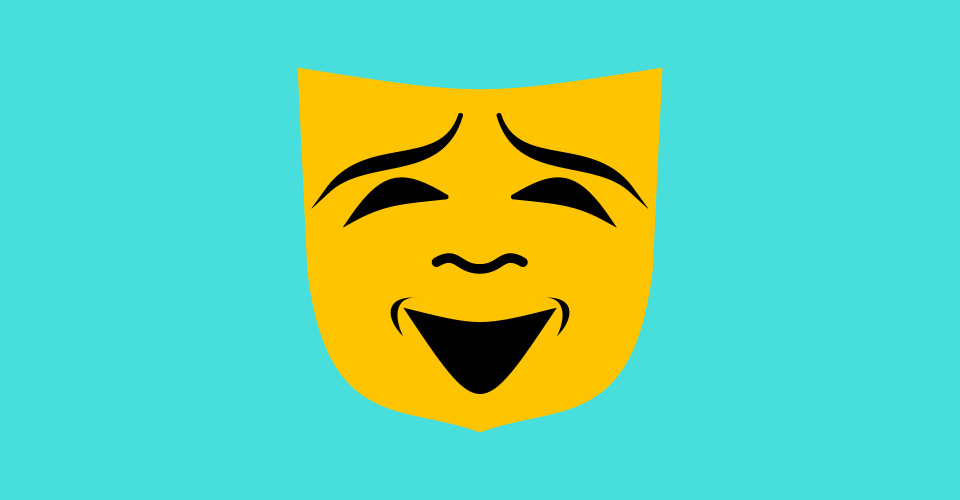
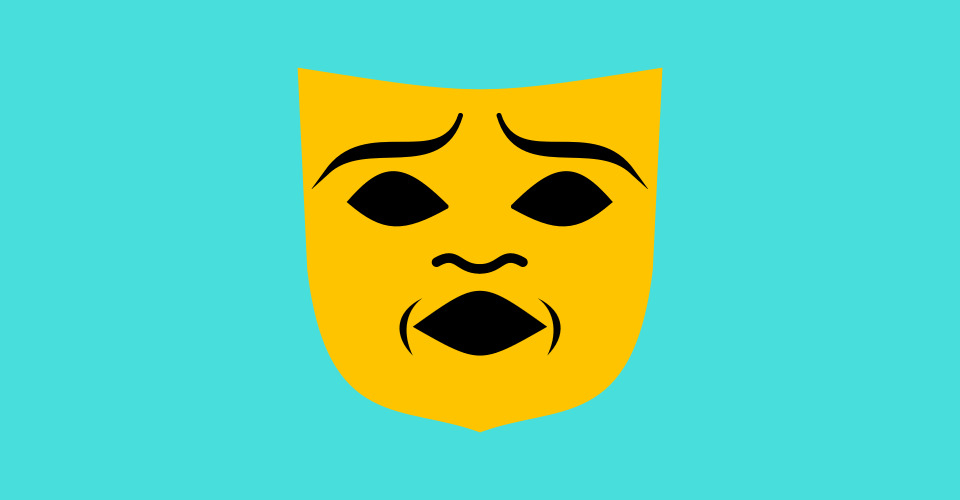
Slider Variables Fin.

Changed region(s): [[0.4062, 0.57, 0.5938, 0.78], [0.5312, 0.27, 0.6875, 0.45], [0.3125, 0.27, 0.4688, 0.45]]

diff --git a/face_code.js b/face_code.js
@@ -105,162 +105,112 @@ function faceMask(brow_value ,eye_value, mouth_value, color_value) {
   endShape();
 
 ///////// EYEBROWS /////////
-  // Brow #1
-  if(brow_value == 1){
-    fill(0);
-    strokeWeight(0.25);
-    beginShape();
-    vertex(1, -7);
-    bezierVertex(2, -3, 6, -8, 8, -5);
-    bezierVertex(6, -7, 2, -2.5, 1, -7);
-    endShape();
+  let inner_browY = -1 // -1 - 1
+  let outer_browY = 1 // 0 - 2
 
-    beginShape();
-    vertex(-1, -7);
-    bezierVertex(-2, -3, -6, -8, -8, -5);
-    bezierVertex(-6, -7, -2, -2.5, -1, -7);
-    endShape();
-  }
+  fill(0);
+  strokeWeight(0.25);
+  beginShape();
+  vertex(1, (inner_browY -6));
+  bezierVertex(2, (inner_browY -3), 6, (outer_browY -8), 8, (outer_browY -5));
+  bezierVertex(6, (outer_browY -7), 2, (inner_browY -2.5), 1, (inner_browY -6));
+  endShape();
 
-  // Brow #2
-  // if(brow_value == 2){
-    let inner_browY = -1
-    let outer_browY = 2
-
-    fill(0);
-    strokeWeight(0.25);
-    beginShape();
-    vertex(1, (inner_browY -6));
-    bezierVertex(2, (inner_browY -3), 6, (outer_browY -8), 8, (outer_browY -5));
-    bezierVertex(6, (outer_browY -7), 2, (inner_browY -2.5), 1, (inner_browY -6));
-    endShape();
-
-    beginShape();
-    vertex(-1, (inner_browY -6));
-    bezierVertex(-2, (inner_browY -3), -6, (outer_browY -8), -8, (outer_browY -5));
-    bezierVertex(-6, (outer_browY -7), -2, (inner_browY -2.5), -1, (inner_browY -6));
-    endShape();
-  // }
+  beginShape();
+  vertex(-1, (inner_browY -6));
+  bezierVertex(-2, (inner_browY -3), -6, (outer_browY -8), -8, (outer_browY -5));
+  bezierVertex(-6, (outer_browY -7), -2, (inner_browY -2.5), -1, (inner_browY -6));
+  endShape();
 
 
 ///////// EYES /////////
-  // Eye #1
-  if(eye_value == 1){
-    fill(0);
-    strokeWeight(0.25);
+  let inner_eyeY = 0 // -0.5 - 0.5
+  let outer_eyeY = -0.5 //  - 0.5 - 0
+  let upper_eyeY = -0.5 // -0.5 - 0.5
+  let lower_eyeY = 1.5 // -1.5 - 1.5
 
-    beginShape();
-    vertex(-1.75, -2.25);
-    bezierVertex(-4, -4, -5, -4, -6.75, -2);
-    bezierVertex(-5, -2.5, -4, -2.5, -1.75, -2.25);
-    endShape();
+  fill(0);
+  strokeWeight(0.25);
 
-    beginShape();
-    vertex(1.75, -2.25);
-    bezierVertex(4, -4, 5, -4, 6.75, -2);
-    bezierVertex(5, -2.5, 4, -2.5, 1.75, -2.25);
-    endShape();
-  }
+  beginShape();
+  vertex(-1.75, (inner_eyeY -2.25));
+  bezierVertex(-4, (upper_eyeY -4), -5, (upper_eyeY -4), -6.75, outer_eyeY-2);
+  bezierVertex(-5, (lower_eyeY -2.5), -4, (lower_eyeY -2.5), -1.75, inner_eyeY-2.25);
+  endShape();
 
-  // if(eye_value == 2){
-    let inner_eyeY = -0.5
-    let outer_eyeY = 0.5
-    let upper_eyeY = -0.1
-    let lower_eyeY = 0
+  beginShape();
+  vertex(1.75, (inner_eyeY -2.25));
+  bezierVertex(4, (upper_eyeY -4), 5, (upper_eyeY -4), 6.75, (outer_eyeY -2));
+  bezierVertex(5, (lower_eyeY -2.5), 4, (lower_eyeY -2.5), 1.75, (inner_eyeY -2.25));
+  endShape();
 
-    fill(0);
-    strokeWeight(0.25);
+///////// MOUTH /////////
+  let cornerX = -0.5 // 0.5 - -1
+  let cornerY = 1 // 0 - 2
+  let upperLip = -2.5 // -2.5 - 0
+  let lowerLip = -3 // -5 - 0
 
-    beginShape();
+  fill(0);
+  noStroke(0);
+  
+  // Mouth
+  beginShape();
+  vertex(-(cornerX +4), (cornerY +3));
+  bezierVertex(0, (upperLip +4), 0, (upperLip +4), (cornerX +4), (cornerY +3));
+  bezierVertex(0, (lowerLip +9), 0, (lowerLip +9), -(cornerX +4), (cornerY +3));
+  endShape();
+  
+  // Smile Lines
+  beginShape();
+  vertex(3, 2.5);
+  bezierVertex((cornerX +5), (cornerY +2.25), (cornerX +5), (cornerY +3.5), (cornerX +4), (cornerY +4.5));
+  bezierVertex((cornerX +4.5), (cornerY +3.5), (cornerX +4.5), (cornerY +2.25), 3, 2.5);
+  endShape();
 
-    vertex(-1.75, (inner_eyeY -2.25));
-    bezierVertex(-4, (upper_eyeY -4), -5, (upper_eyeY -4), -6.75, outer_eyeY-2);
-    bezierVertex(-5, (lower_eyeY -2.5), -4, (lower_eyeY -2.5), -1.75, inner_eyeY-2.25);
-    
-    endShape();
-
-    beginShape();
-    
-    vertex(1.75, (inner_eyeY -2.25));
-    bezierVertex(4, (upper_eyeY -4), 5, (upper_eyeY -4), 6.75, (outer_eyeY -2));
-    bezierVertex(5, (lower_eyeY -2.5), 4, (lower_eyeY -2.5), 1.75, (inner_eyeY -2.25));
-    
-    endShape();
-  // }
-
-///////// MOUTHS /////////
-  // Mouth #1
-  if(mouth_value == 1){
-    fill(0);
-    noStroke(0);
-
-    // Mouth
-    beginShape();
-    vertex(-4, 3);
-    bezierVertex(0, 4, 0, 4, 4, 3);
-    bezierVertex(0, 9, 0, 9, -4, 3);
-    endShape();
-
-    // Smile Lines
-    beginShape();
-    vertex(3, 2.5);
-    bezierVertex(5, 2, 5, 3.5, 4, 4.5);
-    bezierVertex(4.5, 3.5, 4.5, 2.25, 3, 2.5);
-    endShape();
-
-    beginShape();
-    vertex(-3, 2.5);
-    bezierVertex(-5, 2, -5, 3.5, -4, 4.5);
-    bezierVertex(-4.5, 3.5, -4.5, 2.25, -3, 2.5);
-    endShape();
-  }
-
-  // if(mouth_value == 2){
-    let cornerX = 0
-    let cornerY = 0
-    let upperLip = 0
-    let lowerLip = 0
-
-    fill(0);
-    noStroke(0);
-    
-    // Mouth
-    beginShape();
-
-    vertex(-(cornerX +4), (cornerY +3));
-    bezierVertex(0, (upperLip +4), 0, (upperLip +4), (cornerX +4), (cornerY +3));
-    bezierVertex(0, (lowerLip +9), 0, (lowerLip +9), -(cornerX +4), (cornerY +3));
-
-    endShape();
-    
-    // Smile Lines
-    beginShape();
-
-    vertex(3, 2.5);
-    bezierVertex(5, (cornerY +2.25), 5, (cornerY +3.5), 4, (cornerY +4.5));
-    bezierVertex(4.5, (cornerY +3.5), 4.5, (cornerY +2.25), 3, 2.5);
-
-    endShape();
-
-    beginShape();
-
-    vertex(-3, 2.5);
-    bezierVertex(-5, (cornerY +2.25), -5, (cornerY +3.5), -4, (cornerY +4.5));
-    bezierVertex(-4.5, (cornerY +3.5), -4.5, (cornerY +2.25), -3, 2.5);
-
-    endShape();
-  // }
+  beginShape();
+  vertex(-3, 2.5);
+  bezierVertex(-(cornerX +5), (cornerY +2.25), -(cornerX +5), (cornerY +3.5), -(cornerX +4), (cornerY +4.5));
+  bezierVertex(-(cornerX +4.5), (cornerY +3.5), -(cornerX +4.5), (cornerY +2.25), -3, 2.5);
+  endShape();
 
 }
+// Happy Face; set variables to default (0).
 
 // Sad Face
-
-// Happy Face
+  // let inner_browY = -1
+  // let outer_browY = 2
+  // let inner_eyeY = -0.5
+  // let outer_eyeY = 0.5
+  // let upper_eyeY = -0.1
+  // let lower_eyeY = 0
+  // let cornerX = 0
+  // let cornerY = 2
+  // let upperLip = -2
+  // let lowerLip = -5
 
 // Angry Face
+  // let inner_browY = 1
+  // let outer_browY = 0
+  // let inner_eyeY = -0.5
+  // let outer_eyeY = -1
+  // let upper_eyeY = -0.5 
+  // let lower_eyeY = 1 
+  // let cornerX = 0
+  // let cornerY = 2
+  // let upperLip = -2
+  // let lowerLip = -4.5
 
 // Shocked Face
-
+  // let inner_browY = -1
+  // let outer_browY = 1
+  // let inner_eyeY = 0
+  // let outer_eyeY = -0.5
+  // let upper_eyeY = -0.5
+  // let lower_eyeY = 1.5
+  // let cornerX = -0.5
+  // let cornerY = 1
+  // let upperLip = -2.5
+  // let lowerLip = -3
 
 ///// EXAMPLE CODE /////
 // function orangeAlienFace(tilt_value, eye_value, mouth_value) {

diff --git a/editor.js b/editor.js
@@ -67,12 +67,12 @@ function draw () {
   push();
   if (mode == '1') {
    // draw face using values mapped from 3 sliders
-   let brow_value = map(s1, 0, 100, 1, 4);
-   let eye_value = int(map(s3, 0, 100, 1, 4));
-   let mouth_value = map(s2, 0, 100, 1, 4);
-   faceMask(brow_value, eye_value, mouth_value);
+   let tilt_value = map(s1, 0, 100, -90, 90);
+   let mouth_value = map(s2, 0, 100, 0.5, 10);
+   let eye_value = int(map(s3, 0, 100, 1, 3));
+   orangeAlienFace(tilt_value, eye_value, mouth_value);
   }
-
+  
   if (mode == '2') {
      // let slider value 1 indicate thinness
      blockyFace(s1);

diff --git a/README.md b/README.md
@@ -3,6 +3,7 @@
 ## 2023 MDDN342 Assignment 2: Randomised Collections
 **This is where you talk about your project!**
 
-Changed up my code a little bit and implimented more variables so that I can use the sliders. Intially I was just going to have set facial features, but moving forward it makes more sense to have them change with the sliders - it's easier and creates more interesting variations. I'm going to save the variable values for different facial expressions though (happy, sad, mad, etc), in case I want to use this later.
-
-I've broken my arrangement code a little bit so I need to make more tweaks (though I'm more likely to start that from scratch). Overall happy with how things are going. Still behind but switching to the sliders will definately help things speed up; I just need to set limits.
+Further refined the slider variables and figured out the limits of each; now onto implimenting this code into the sliders and the arrangment, as well as sorting out the colour changing variable. Hopefully if there's time I would like to try the following:
+- Two colours at once (each one half of the face).
+- Change nose.
+- Add further details to face.
